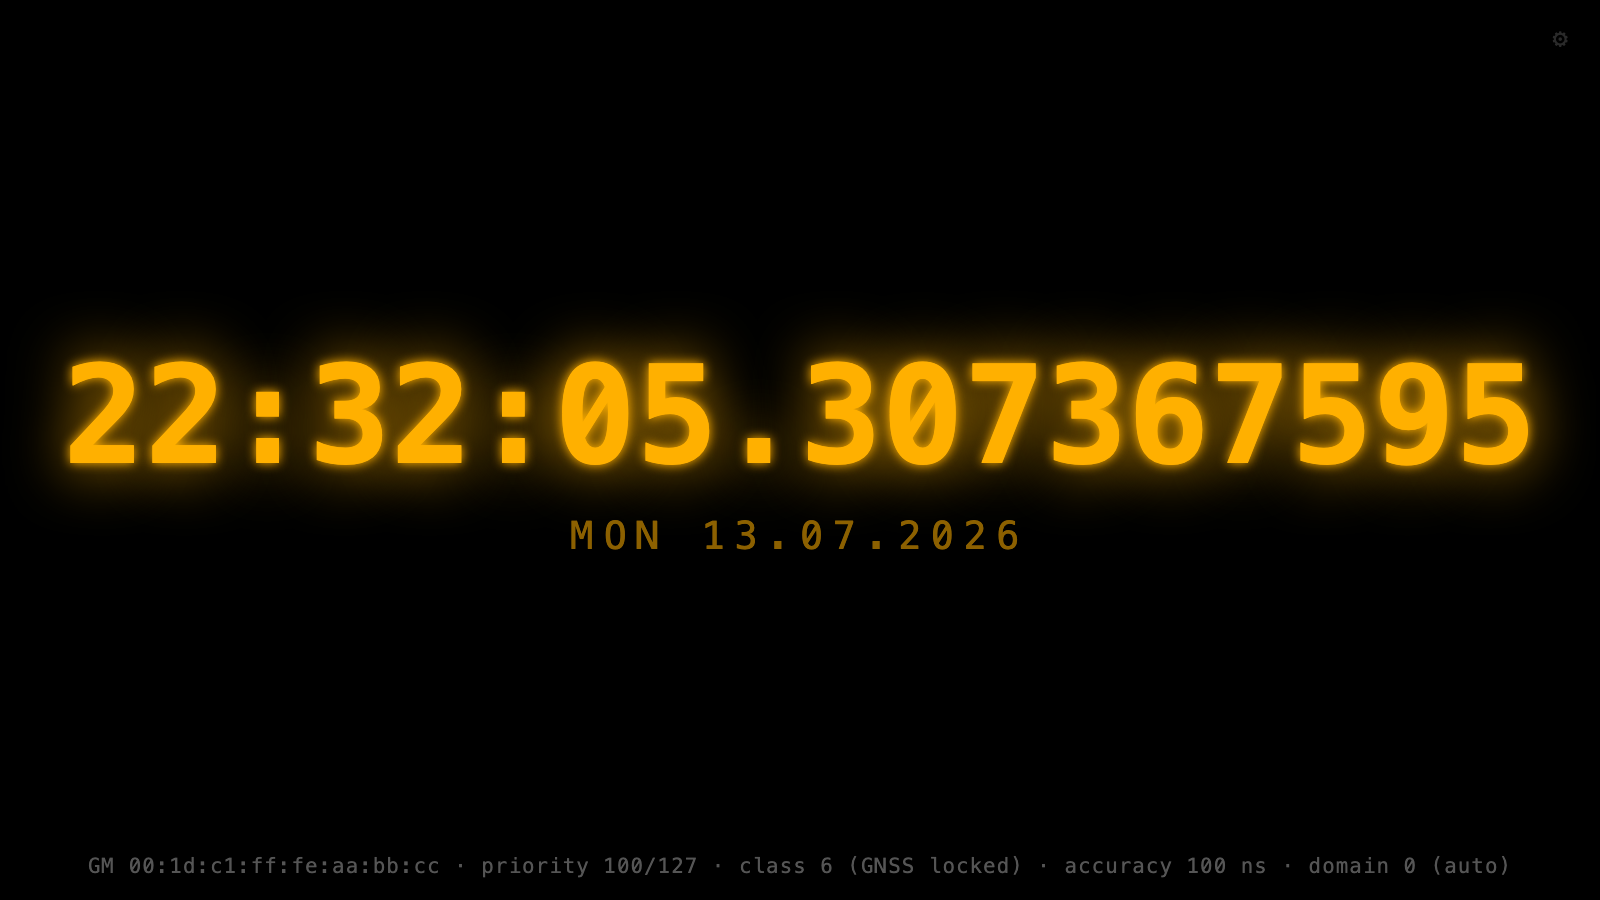
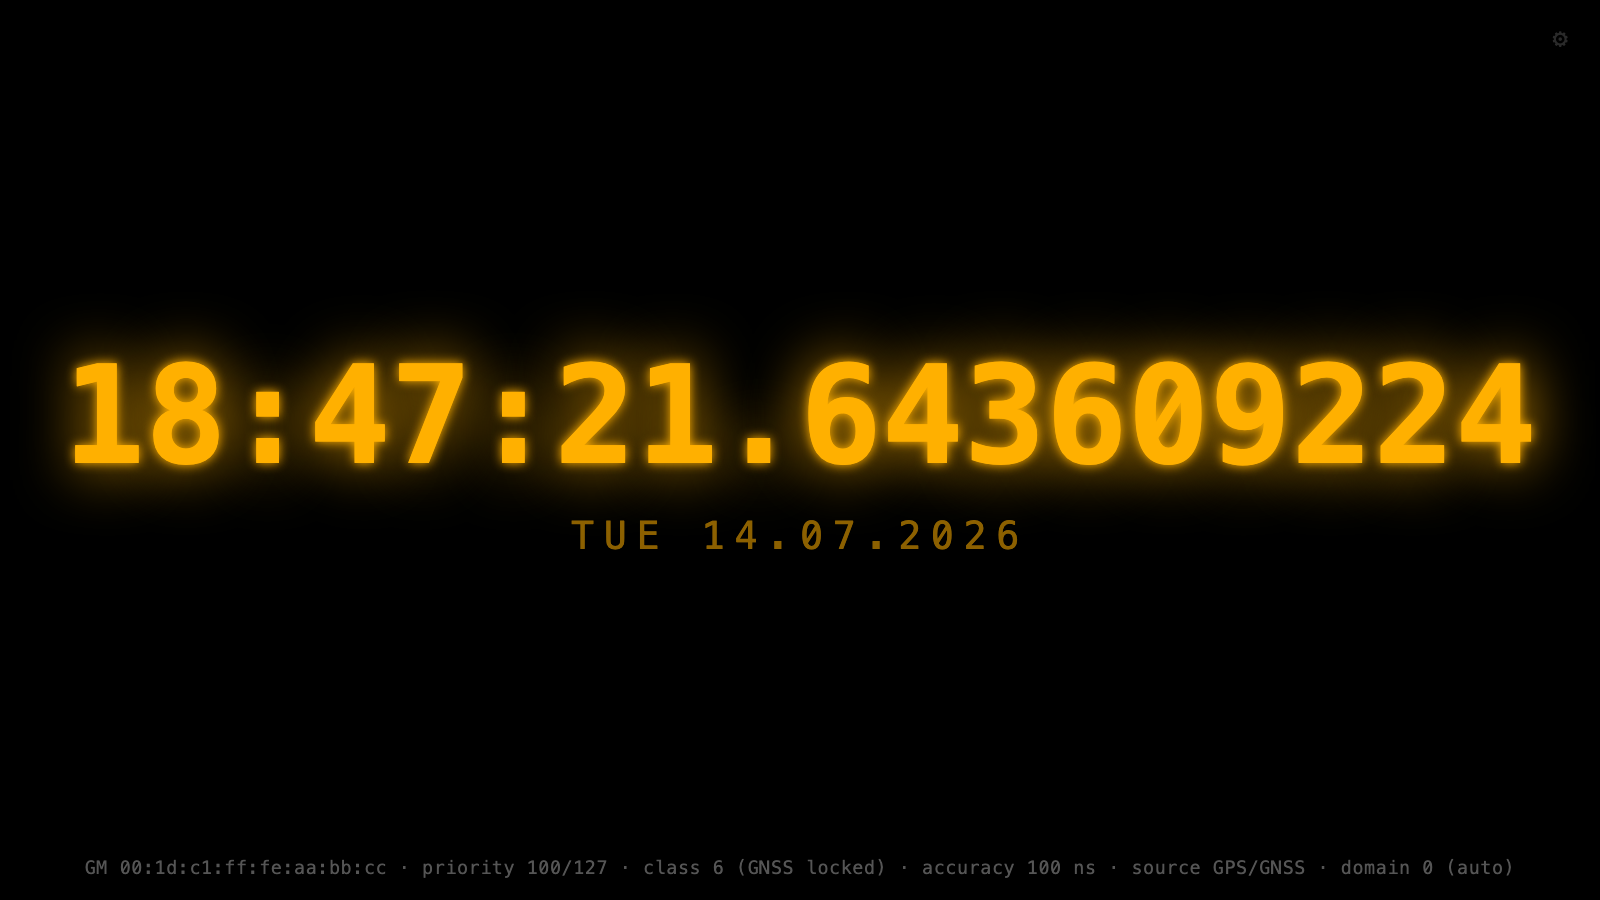
Fullscreen clock in a new tab, time source in its footer, leaner LED line
- The "fullscreen clock" link on the settings page opens in a new tab.
- The browser clock footer now includes the time source (e.g. GPS/GNSS);
  separators and font tightened so the longer line still fits one row.
- LED details line drops the accuracy code: "P100/127 CL6 GNSS".
- Clock screenshots refreshed.

diff --git a/ptp-clock.cpp b/ptp-clock.cpp
@@ -953,7 +953,7 @@ static const char *kIndexHtml = R"HTML(<!DOCTYPE html>
 <div id="gmwarn"></div>
 
 <fieldset>
-<legend>PTP time &nbsp;<a href="/clock">fullscreen clock &rarr;</a></legend>
+<legend>PTP time &nbsp;<a href="/clock" target="_blank" rel="noopener">fullscreen clock &rarr;</a></legend>
 <div id="clock">--:--:--</div>
 <div id="clockdate"></div>
 </fieldset>
@@ -1365,8 +1365,8 @@ static const char *kClockHtml = R"CLOCK(<!DOCTYPE html>
          text-shadow: 0 0 0.5em #f43; animation: pulse 1s infinite; }
  @keyframes pulse { 50% { opacity: 0.35; } }
  #footer { position: fixed; bottom: 2.5vh; left: 0; right: 0;
-         text-align: center; font-size: min(1.3vw, 4vh);
-         letter-spacing: 0.05em; color: #555; }
+         text-align: center; font-size: min(1.15vw, 3.6vh);
+         letter-spacing: 0.03em; color: #555; }
  #bo { display: none; position: fixed; bottom: 2.5vh; right: 2vw;
          color: #222; font-size: 1.4vw; }
  #cfg { position: fixed; top: 2.5vh; right: 2vw; color: #2a2a2a;
@@ -1396,6 +1396,9 @@ const ACC = {0x20:'25 ns',0x21:'100 ns',0x22:'250 ns',0x23:'1 µs',
  0x24:'2.5 µs',0x25:'10 µs',0x26:'25 µs',0x27:'100 µs',0x28:'250 µs',
  0x29:'1 ms',0x2A:'2.5 ms',0x2B:'10 ms',0x2C:'25 ms',0x2D:'100 ms',
  0x2E:'250 ms',0x2F:'1 s',0x30:'10 s',0x31:'>10 s'};
+const TSRC = {0x10:'atomic clock',0x20:'GPS/GNSS',0x30:'terrestrial radio',
+ 0x40:'PTP',0x50:'NTP',0x60:'hand set',0x90:'other',
+ 0xA0:'internal oscillator'};
 
 // Digits finer than the browser timer resolution are dithered every frame
 // (see the settings page clock for the same trick)
@@ -1448,11 +1451,12 @@ function updateFooter(s) {
       ? (s.active_domain >= 0 ? s.active_domain + ' (auto)' : 'auto')
       : s.domain;
   f.textContent = 'GM ' + s.gm_id +
-      '   ·   priority ' + s.priority1 + '/' + s.priority2 +
-      '   ·   class ' + s.clock_class +
+      ' · priority ' + s.priority1 + '/' + s.priority2 +
+      ' · class ' + s.clock_class +
       (CLS[s.clock_class] ? ' (' + CLS[s.clock_class] + ')' : '') +
-      '   ·   accuracy ' + (ACC[s.clock_accuracy] || 'unknown') +
-      '   ·   domain ' + dom;
+      ' · accuracy ' + (ACC[s.clock_accuracy] || 'unknown') +
+      ' · source ' + (TSRC[s.time_source] || 'unknown') +
+      ' · domain ' + dom;
 }
 
 async function poll() {
@@ -2014,9 +2018,9 @@ int main(int argc, char **argv) {
                     ts = tsbuf;
                 }
                 char det[48];
-                snprintf(det, sizeof(det), "P%u/%u CL%u AC%02X %s",
+                snprintf(det, sizeof(det), "P%u/%u CL%u %s",
                          g_gm.priority1, g_gm.priority2,
-                         g_gm.clock_class, g_gm.clock_accuracy, ts);
+                         g_gm.clock_class, ts);
                 detail_line = det;
             }
             timespec now;

diff --git a/README.md b/README.md
@@ -160,8 +160,8 @@ Settings:
   live without a restart
 - **Grandmaster ID** — show the current PTP grandmaster identity as a second
   line on the matrix
-- **Priorities & clock quality** — show priority 1/2, clock class, clock
-  accuracy, and the time source (e.g. `GNSS`) on the matrix
+- **Priorities & clock quality** — show priority 1/2, clock class, and the
+  time source (e.g. `GNSS`) on the matrix
 - **Date** — show the date on the matrix (if several second-line options are
   enabled, the line alternates every 4 seconds)
 - **Time display** — UTC, TAI, or local time with a configurable time zone